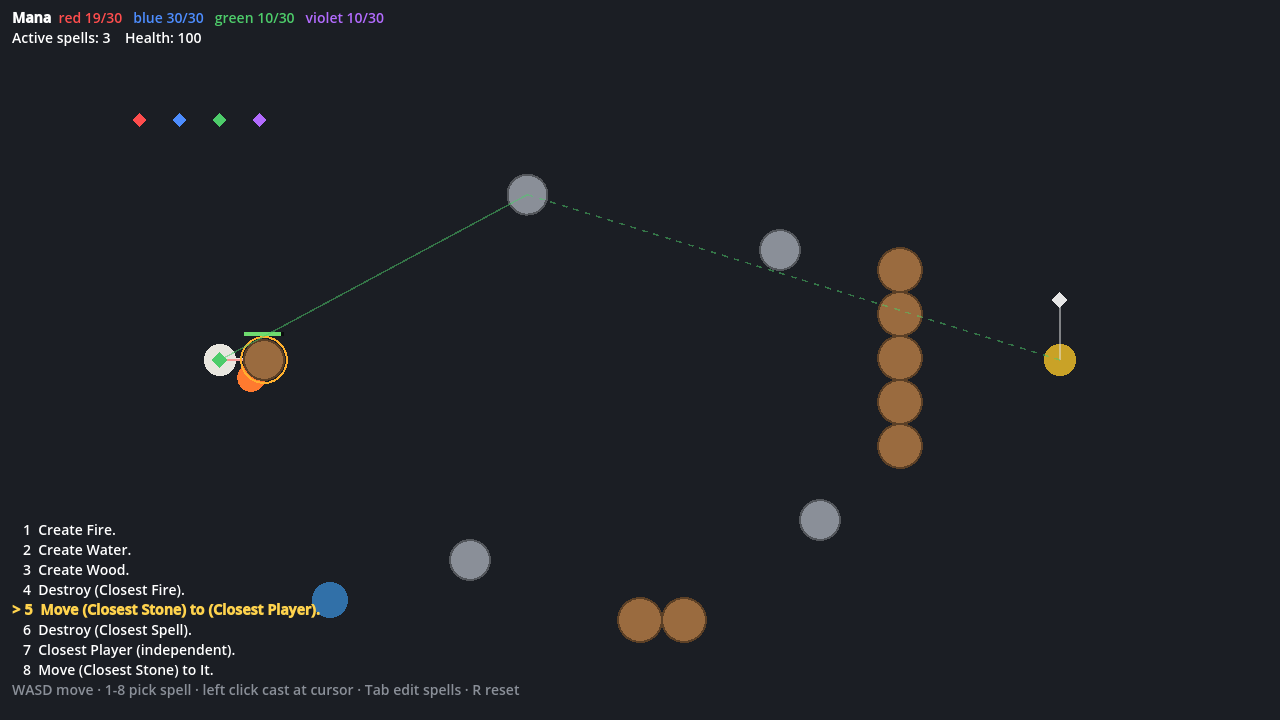
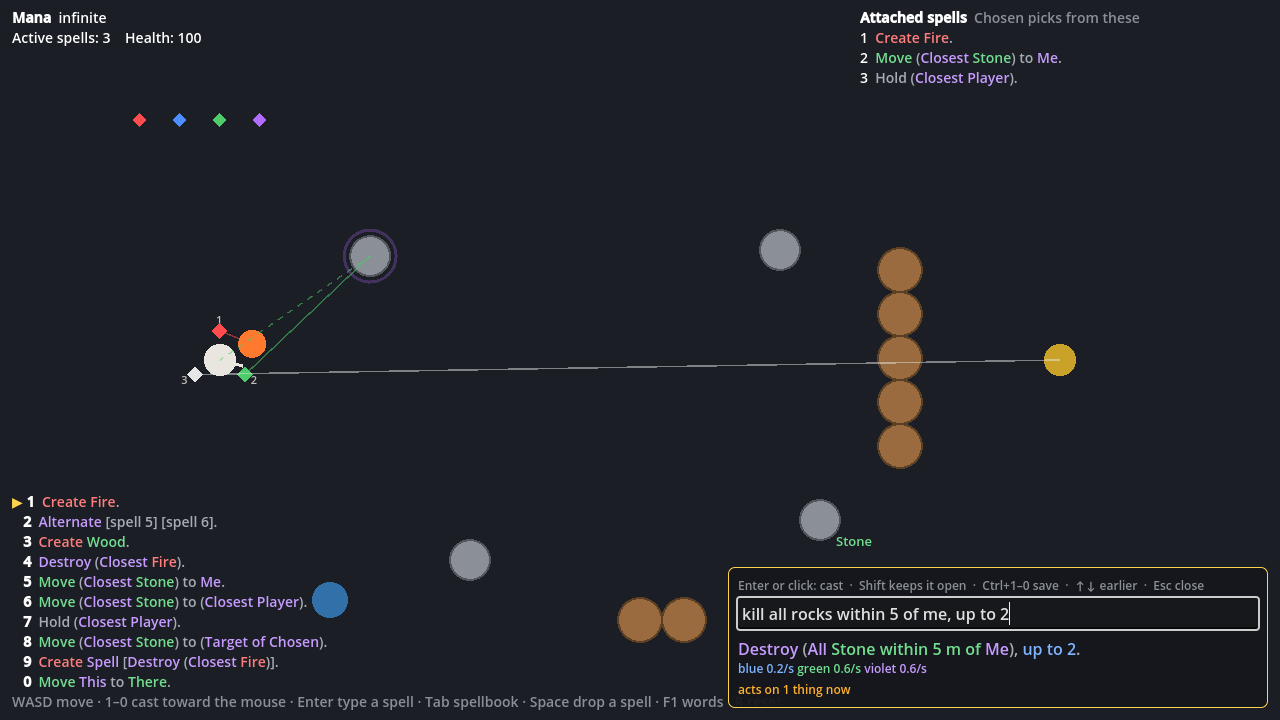
Click a spell to pick it; a clearer README and screenshot
- While the window asks for a Chosen (or a spell to drop), clicking an
  attached spell's diamond picks it, like its number key. The window's
  spell is colored like everywhere else.
- The README's "Making spells fast" is a short list instead of a wall of
  text, and the screenshot shows the current game: a typed spell in
  everyday words with its preview, and spells attached around the player.

Claude-Session: https://claude.ai/code/session_013jfXwMwWtv4oDjb8vuFPPJ

diff --git a/README.md b/README.md
@@ -23,43 +23,43 @@ selector are enough to build spells that interact in ways nobody scripted.
 | Tab | Open or close the spellbook (pauses the simulation) |
 | Left click | While typing a spell, cast it there; while picking This or There, pick |
 | Esc | Cancel a cast that is waiting for picks (a right click does too), or close the typing bar |
-| Space | Drop one of your attached spells (pick it in a window) |
+| Space | Drop one of your attached spells (pick it in a window, or click it by you) |
 | F1 | Show every word, colored by mana, with typed examples |
 | R | Reset the sandbox |
 
 ### Making spells fast
 
-**Type them.** Press **Enter**, type the spell, press **Enter** again: it's
-cast toward the mouse. Words can be cut to any prefix that fits where they
-stand, so `mo cl st to me` is `Move (Closest Stone) to Me`; a thing on its
-own means the closest one (`move stone me`, `destroy fire`); parentheses,
-commas, "of", "to" and "m" are optional, plurals are fine (`destroy all fires
-within 3 of there, up to 2`), and a noun on its own holds it (`closest player`).
-Leave out what a verb acts on and it acts on what the mouse is on (`de` is
-`Destroy This`); leave out where Move moves it and it goes to the mouse
-(`mo st` is `Move (Closest Stone) to There`). A slip of one letter (missing,
-extra, wrong or swapped: `mvoe stoen`) is read as the word it nearly is, when
-nothing reads without it; the spell shown under the bar is how it was read.
-Everyday words work too, and "a", "an" and "the" are skipped: `make a fire`,
-`kill the nearest rock`, `grab every rock`, `pull stone` (Move it to Me),
-`put the rock there`.
-While the typed spell reads, the world rings what it would act on right now,
-and a line says how much, or that it would wait.
-While you type, up to five words that could come next are suggested (**Tab**
-takes the first) and the spell is shown as it's understood, colored by the
-mana each word costs, with its cost. **Ctrl+1–0** saves it to that slot
-instead, **Shift+Enter** casts and keeps the bar open for the next; **↑/↓**
-recall spells typed before, and Enter on the empty bar casts the last one
-again (so Enter, Enter repeats it). Instead of Enter you can **click** where to cast
-it: what you click is its This (or its There), so `de` and a click destroys
-that thing, and **Shift+click** keeps the spell ready to click onto more. Pointing at something shows the words that
-describe it (Stone · moving · mine).
+**Type them.** Press **Enter**, type the spell, and press **Enter** to cast
+it toward the mouse, or **click** where to cast it.
 
-**Or pick them from your slots.** Number keys cast them toward the mouse.
+- **Short words.** Any prefix that fits where it stands: `mo cl st to me` is
+  `Move (Closest Stone) to Me`.
+- **Left-out words.** A thing on its own is the closest one (`destroy fire`).
+  A verb with no noun acts on what the mouse is on (`de` is `Destroy This`,
+  so `de` and a click destroys what you click), and Move with no place moves
+  to the mouse (`mo st`). A noun on its own holds it (`closest player`).
+  Parentheses, commas, "of", "to" and "m" are optional; plurals are fine.
+- **Slips and everyday words.** One wrong, missing, extra or swapped letter is
+  forgiven (`mvoe stoen`). `make a fire`, `kill the nearest rock`, `grab every
+  rock`, `pull stone` (Move it to Me) and `put the rock there` work, and "a",
+  "an" and "the" are skipped.
+- **Help as you type.** Up to five next words are suggested (**Tab** takes the
+  first, which shows faintly after the caret). The spell is shown as it was
+  read, colored by the mana each word costs, with its cost. The world rings
+  what it would act on now, and a line says how much, or that it would wait.
+- **Repeat and keep.** **Enter** on the empty bar casts the last spell again;
+  **↑/↓** go through earlier ones. **Shift+Enter** casts and keeps the bar open
+  for the next, **Shift+click** keeps the spell ready to click onto more
+  things, and **Ctrl+1–0** saves it to that slot.
+
+Pointing at something shows the words that describe it (Stone · moving ·
+mine); pointing at a spell shows what it's doing and the mana it has left.
+
+**Or cast them from your slots.** Number keys cast them toward the mouse.
 Pointing at a slot's line in the list rings what it would act on now, and
 clicking it opens it in the spellbook.
 
-**Or click them.** **Tab** opens the spellbook: your ten slots on the left,
+**Or click them together.** **Tab** opens the spellbook: your ten slots on the left,
 the chosen one on the right, where you can type it the same way or click its
 words. Each word opens a menu of at most five choices (longer lists are split
 into submenus: Pick ▸ Closest, Farthest, Random, All), "+" adds optional parts
